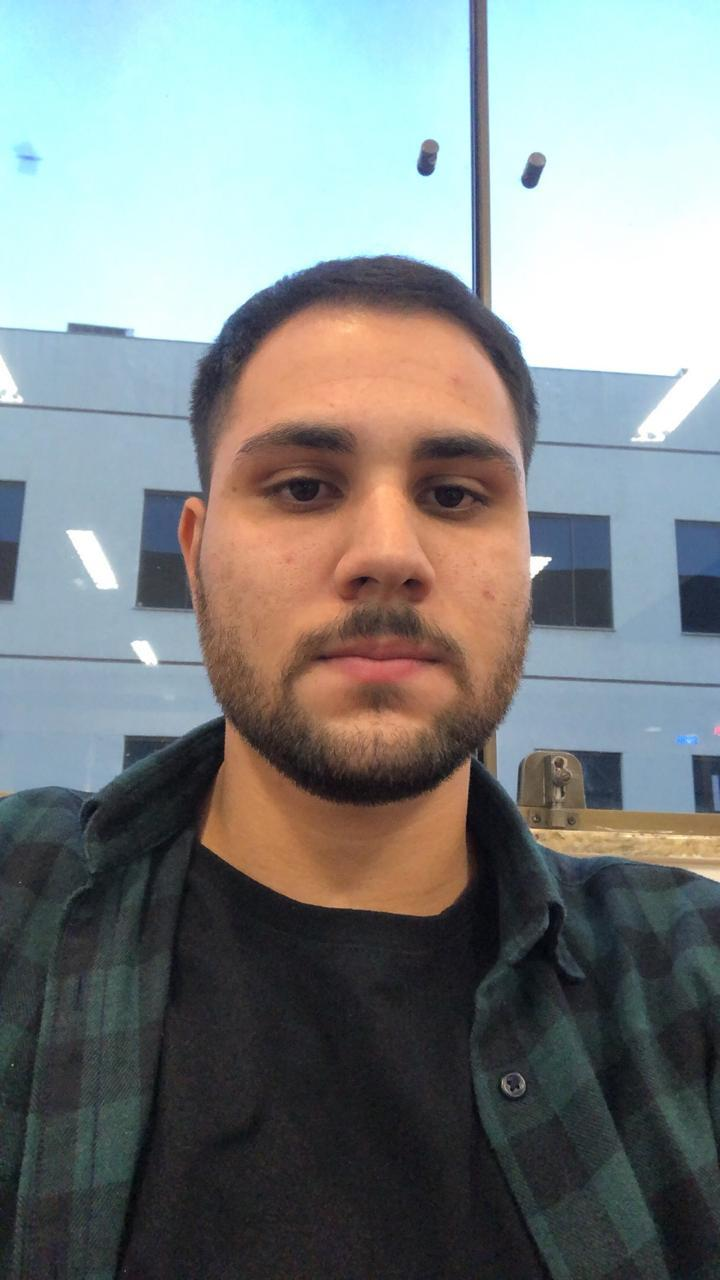
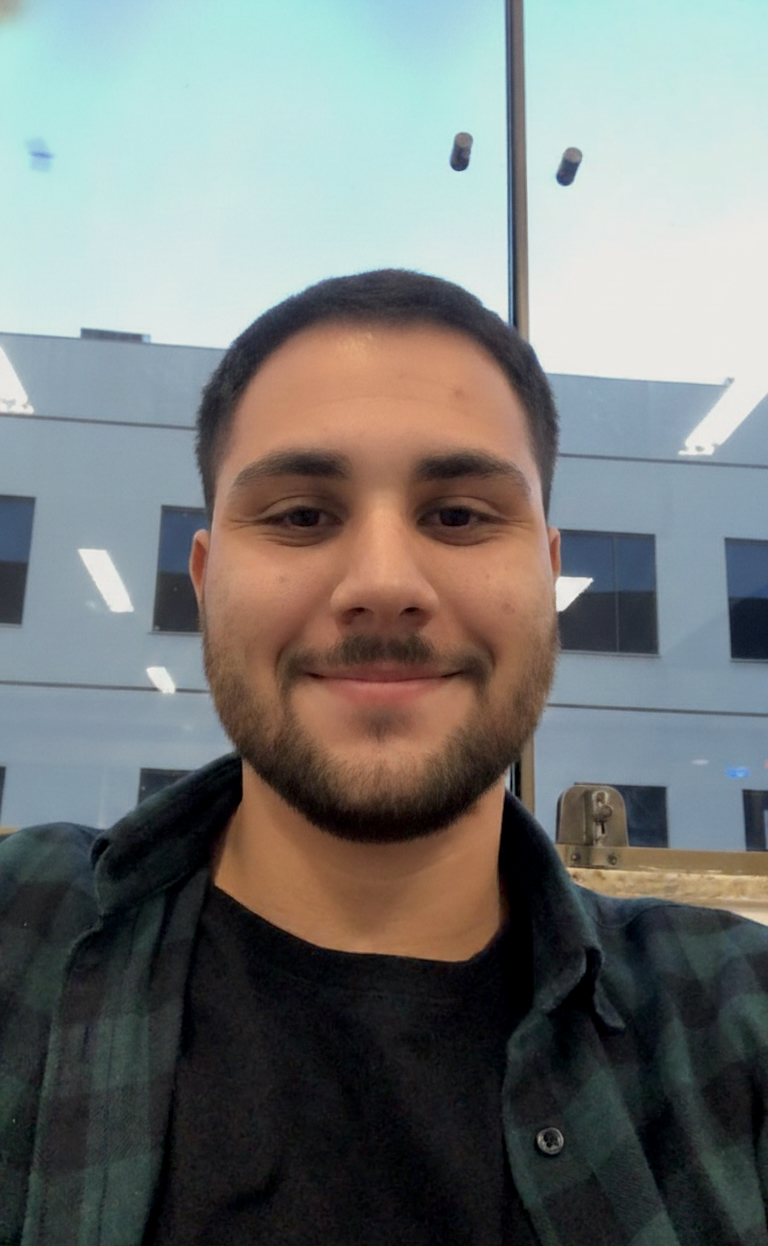
updating portfolio photo

diff --git a/src/components/sections/SkillsSection.module.css b/src/components/sections/SkillsSection.module.css
@@ -10,7 +10,7 @@
     --hc-border: rgba(0, 60, 0, 0.42);
     --hc-border-strong: rgba(0, 60, 0, 0.62);
     --hc-fill: rgba(11, 13, 18, 0.75);
-
+  
     border-bottom: 1px solid rgba(255, 255, 255, 0.08);
   }
   
@@ -31,6 +31,9 @@
     display: flex;
     flex-direction: column;
     gap: 14px;
+  
+    /* ✅ garante que TUDO que está dentro fique alinhado no centro */
+    align-items: center;
   }
   
   .groupTitle {
@@ -96,11 +99,11 @@
     background: rgb(25, 25, 25);
   }
   
-/* ===========================
-   CAROUSEL (RESPONSIVO + ARCO)
-   =========================== */
-
-   .carousel {
+  /* ===========================
+     CAROUSEL (RESPONSIVO + ARCO)
+     =========================== */
+  
+  .carousel {
     position: relative;
     overflow: hidden;
   
@@ -110,7 +113,7 @@
     border-radius: 999px;
   
     /* ✅ tamanhos responsivos */
-    --logo-size: clamp(56px, 16vw, 120px);  /* Mobile -> Desktop */
+    --logo-size: clamp(56px, 16vw, 120px); /* Mobile -> Desktop */
     --track-pad: clamp(14px, 4vw, 36px);
     --track-gap: clamp(12px, 3.8vw, 28px);
     --edge-w: clamp(44px, 12vw, 180px);
@@ -173,8 +176,7 @@
   
   .logoWrap:hover .logoImg {
     transform: scale(1.14);
-    filter:
-      drop-shadow(0 14px 28px rgba(0,0,0,0.45))
+    filter: drop-shadow(0 14px 28px rgba(0, 0, 0, 0.45))
       drop-shadow(0 0 18px rgba(0, 255, 120, 0.18));
   }
   
@@ -245,8 +247,7 @@
     border-radius: 14px;
   
     border: 1px solid var(--hc-border);
-    background:
-      radial-gradient(
+    background: radial-gradient(
         700px 220px at 50% 0%,
         rgba(0, 255, 120, 0.10),
         rgba(0, 0, 0, 0) 60%
@@ -275,8 +276,7 @@
       rgba(0, 0, 0, 0.35) 100%
     );
   
-    box-shadow:
-      inset 0 0 0 1px rgba(0, 0, 0, 0.22),
+    box-shadow: inset 0 0 0 1px rgba(0, 0, 0, 0.22),
       0 14px 28px rgba(0, 0, 0, 0.22);
   
     white-space: nowrap;
@@ -306,8 +306,15 @@
   
   /* Responsivo */
   @media (max-width: 900px) {
+    /* ✅ AQUI é o fix principal: desliga o full-bleed no tablet/mobile pra não dar drift */
     .cardFullBleed {
-      border-radius: 0;
+      width: min(980px, 92vw);
+      max-width: min(980px, 92vw);
+      margin-left: auto;
+      margin-right: auto;
+  
+      border-radius: 16px;
+      padding: 0; /* se quiser “card”, troca pra 16px */
     }
   
     .carouselTrack {
@@ -330,8 +337,7 @@
     }
   }
   
-  /* ⚠ você tinha isso duplicado no final — mantive o comportamento,
-     mas agora faz mais sentido ajustar o tamanho do logo aqui no responsivo */
+  /* ⚠ você tinha isso duplicado no final — mantive o comportamento */
   @media (max-width: 900px) {
     .carousel {
       --logo-h: 72px;
@@ -341,4 +347,28 @@
     .carouselEdgeRight {
       width: 74px;
     }
+
+    /* evita qualquer overflow horizontal que empurra o “centro” */
+.section {
+    width: min(980px, 92vw);
+    margin-left: auto;
+    margin-right: auto;
+  }
+  
+  /* garante que cards NARROW/WIDE fiquem sempre centralizados */
+  .cardNarrow,
+  .cardWide {
+    margin-left: 10px;
+    margin-right: 10px;
+  }
+
+  .cardFullBleed {
+    width: min(980px, 92vw);
+    max-width: min(980px, 92vw);
+    margin-left: auto;
+    margin-right: auto;
+
+    border-radius: 16px;
+    padding: 0;
+  }
   }

diff --git a/src/components/ui/UrlPill.tsx b/src/components/ui/UrlPill.tsx
@@ -53,12 +53,7 @@ export function UrlPill({ href, displayText, tabTitle, faviconSrc }: Props) {
           <div className={styles.tabStrip}>
             <div className={styles.tabCard}>
               <span className={styles.faviconBadge} aria-hidden="true">
-                <img
-                  className={styles.favicon}
-                  src={fav}
-                  alt=""
-                  draggable={false}
-                />
+                <img className={styles.favicon} src={fav} alt="" draggable={false} />
               </span>
 
               <span className={styles.tabTitle}>{title}</span>

diff --git a/src/components/ui/UrlPill.module.css b/src/components/ui/UrlPill.module.css
@@ -393,6 +393,17 @@
   text-overflow: ellipsis;
 }
 
-@media (max-width: 420px) {
-  .wrap { --tab-w: clamp(190px, 58vw, 260px); }
+@media (max-width: 600px) {
+  .wrap { --tab-w: clamp(190px, 58vw, 260px);
+          display: flex;
+          justify-content: center;
+          align-items: center;
+        }
+
+  .dot {
+    width: clamp(8px, 2.2vw, 10px);
+    height: clamp(8px, 2.2vw, 10px);
+    margin-bottom: 1px;
+  }
 }
+

diff --git a/src/components/sections/ProjectsSection.module.css b/src/components/sections/ProjectsSection.module.css
@@ -65,9 +65,15 @@
   margin-top: 28px;
 }
 
-@media (max-width: 900px) {
+@media (max-width: 690px) {
   .mobtechGrid {
     grid-template-columns: 1fr;
     gap: 18px;
+    display: grid;
+  place-items: center;
+  }
+
+  .mobtechCardWrap {
+    width: 80%;
   }
 }
